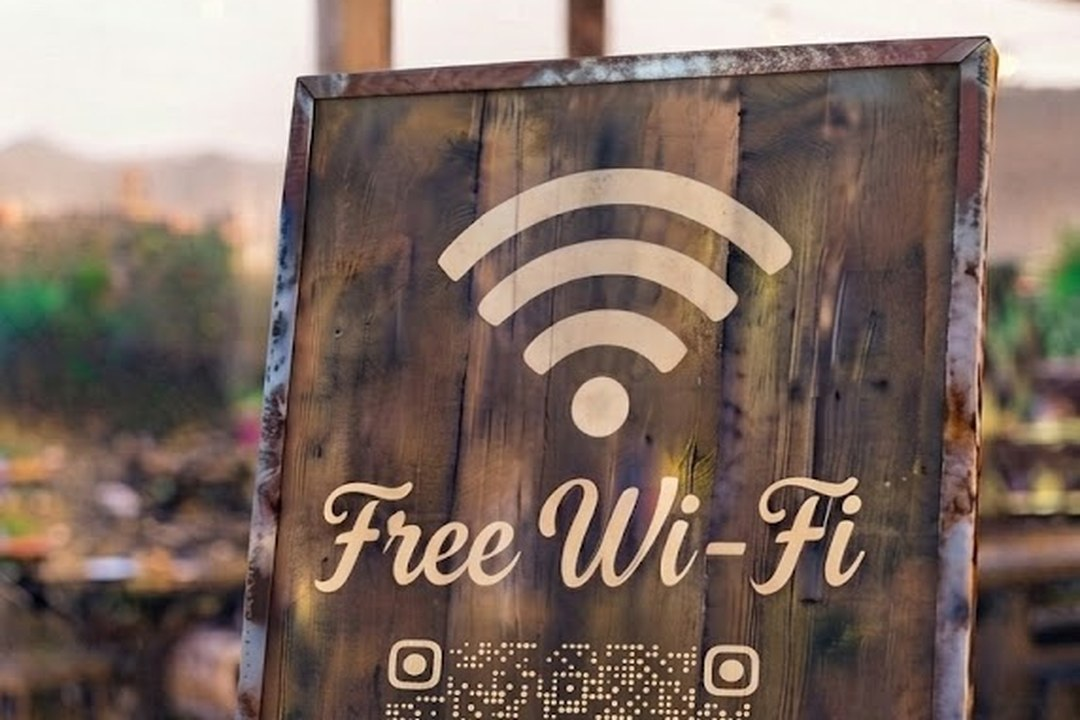
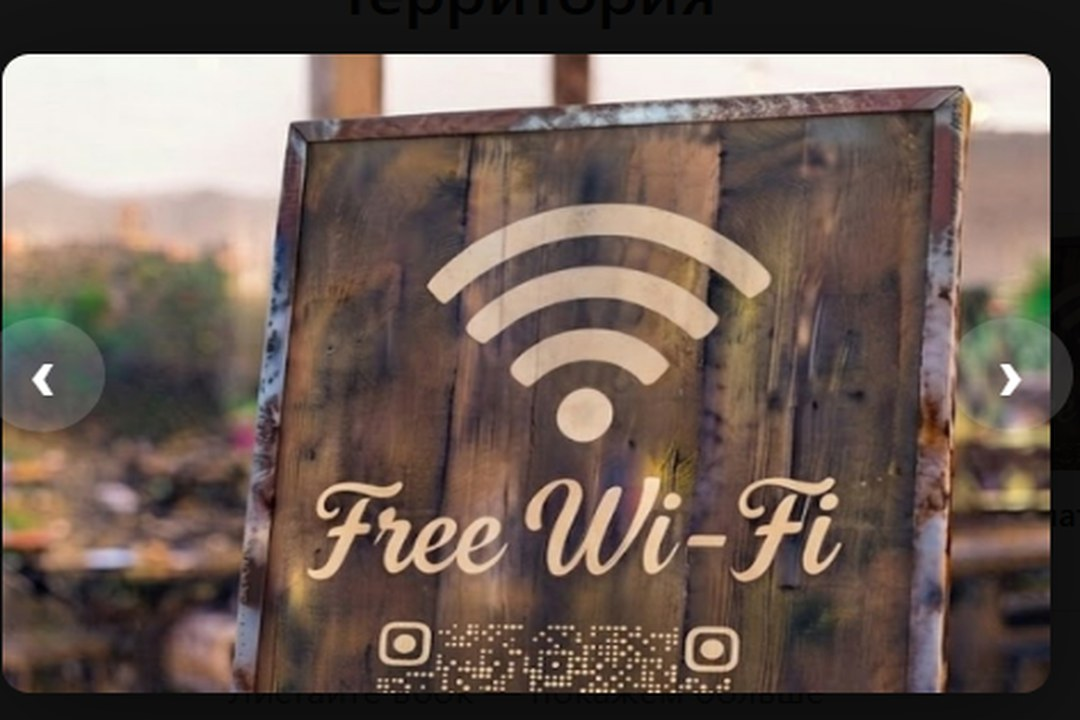
Заменить фото «Wi-Fi» на скриншот из буфера обмена
Пользователь попросил вставить конкретный снимок с табличкой
«Free Wi-Fi» вместо обрезанного кадра. Файл assets/img/territory/wifi.jpg
заменён на вставленный скриншот (приведён к 1080×720, как у остальных
фото территории). В скриптах проверки прописан адрес 127.0.0.1 и флаг
--no-proxy-server, чтобы headless Chrome не уходил через прокси песочницы.
Тесты прототипа: 37/37.

diff --git a/scripts/check-prototype.js b/scripts/check-prototype.js
@@ -3,7 +3,7 @@
 const puppeteer = require('puppeteer-core');
 
 const CHROME = 'C:\\Program Files\\Google\\Chrome\\Application\\chrome.exe';
-const URL = 'http://localhost:8000/';
+const URL = 'http://127.0.0.1:8000/';
 
 const results = [];
 function check(name, ok, extra) {
@@ -15,7 +15,7 @@ function check(name, ok, extra) {
   const browser = await puppeteer.launch({
     executablePath: CHROME,
     headless: 'new',
-    args: ['--no-sandbox', '--disable-dev-shm-usage']
+    args: ['--no-sandbox', '--disable-dev-shm-usage', '--no-proxy-server']
   });
   const page = await browser.newPage();
   await page.setViewport({ width: 500, height: 900, deviceScaleFactor: 1, isMobile: true, hasTouch: true });

diff --git a/scripts/shots.js b/scripts/shots.js
@@ -3,12 +3,12 @@ const puppeteer = require('puppeteer-core');
 const path = require('path');
 
 const OUT = __dirname;
-const URL = 'http://localhost:8000/';
+const URL = 'http://127.0.0.1:8000/';
 
 (async () => {
   const b = await puppeteer.launch({
     executablePath: 'C:\\Program Files\\Google\\Chrome\\Application\\chrome.exe',
-    headless: 'new', args: ['--no-sandbox']
+    headless: 'new', args: ['--no-sandbox', '--no-proxy-server']
   });
 
   // --- мобильный ---
